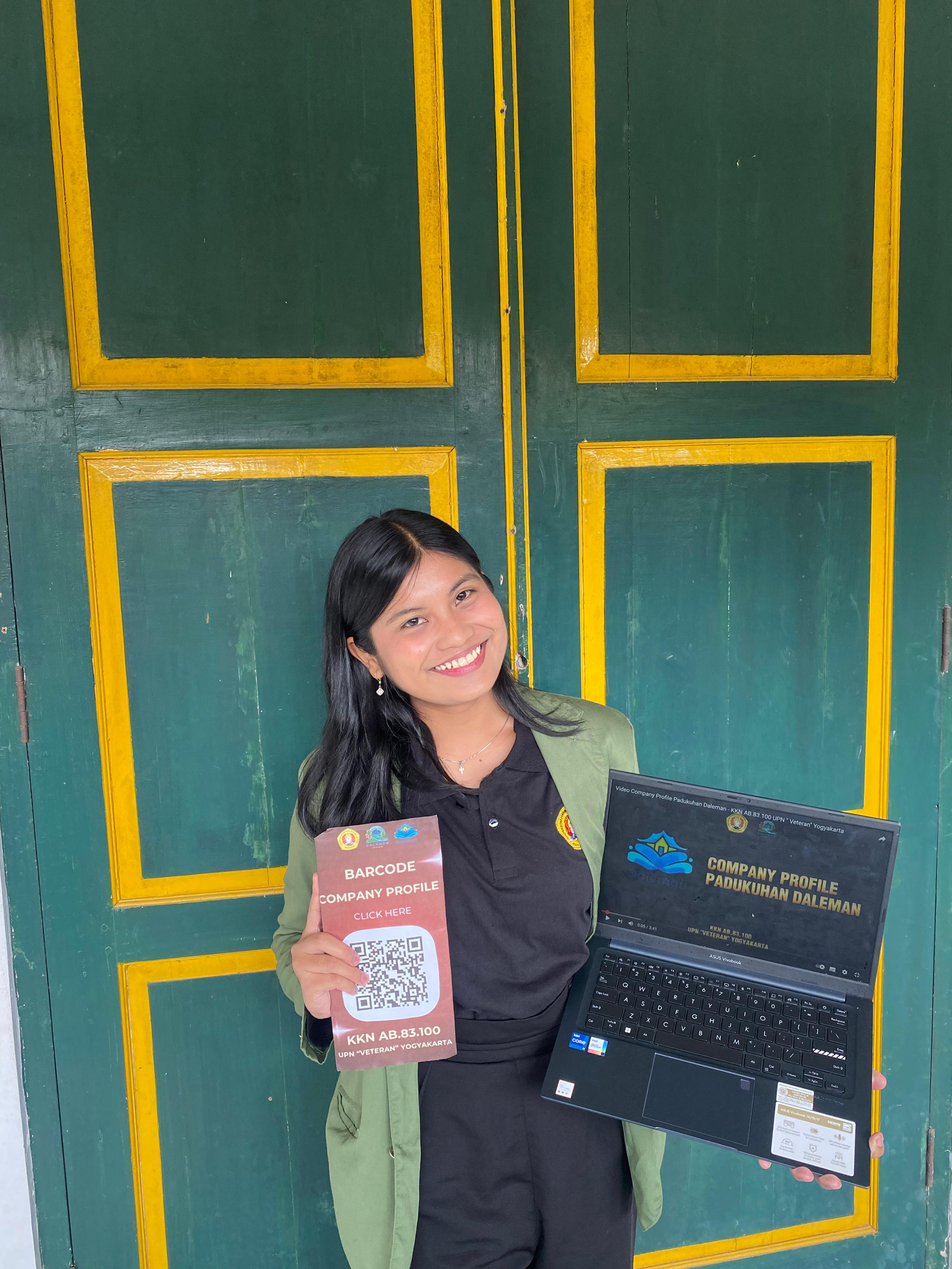
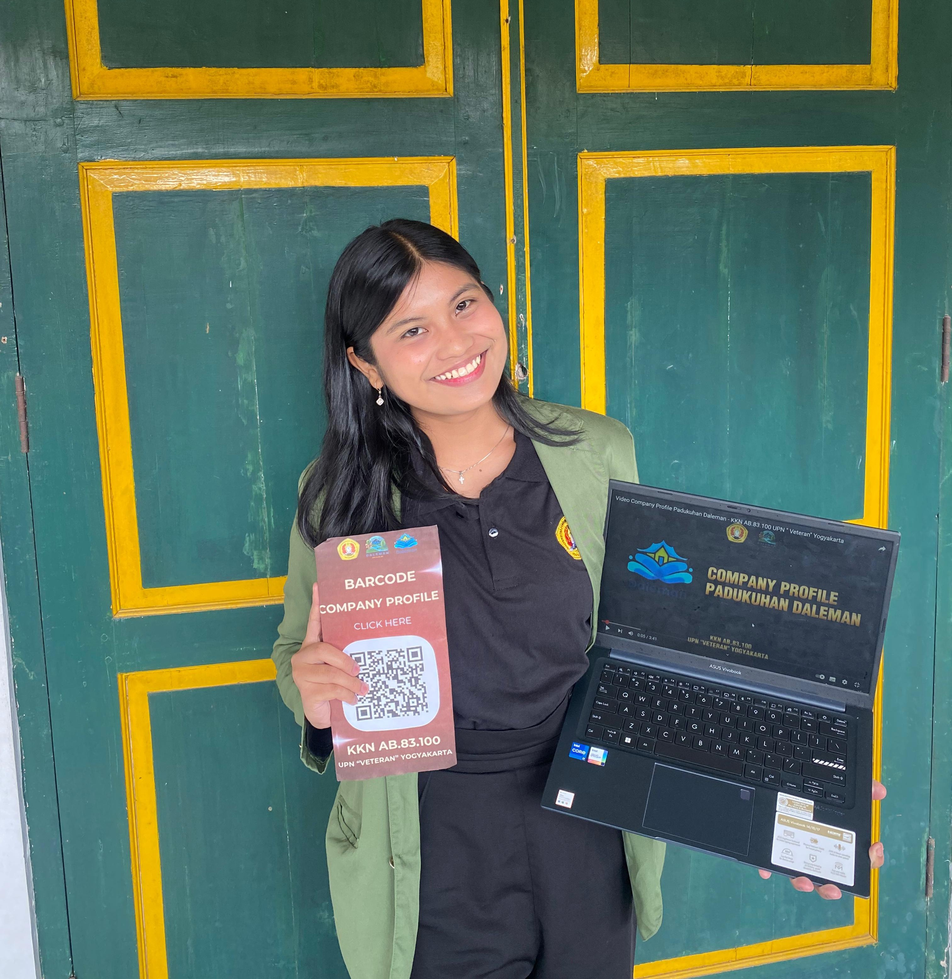
yaay

diff --git a/kkn.html b/kkn.html
@@ -96,7 +96,7 @@
             <p>Ketua</p>
           </div>
           <div class="anggota-card">
-            <img src="assets/foto anak kkn/sekre1.JPG" alt="Sekretaris 1">
+            <img src="assets/foto anak kkn/sekre1.png" alt="Sekretaris 1">
             <strong>Damelia Agnes D. Tampubolon</strong>
             <p>Sekretaris</p>
           </div>
